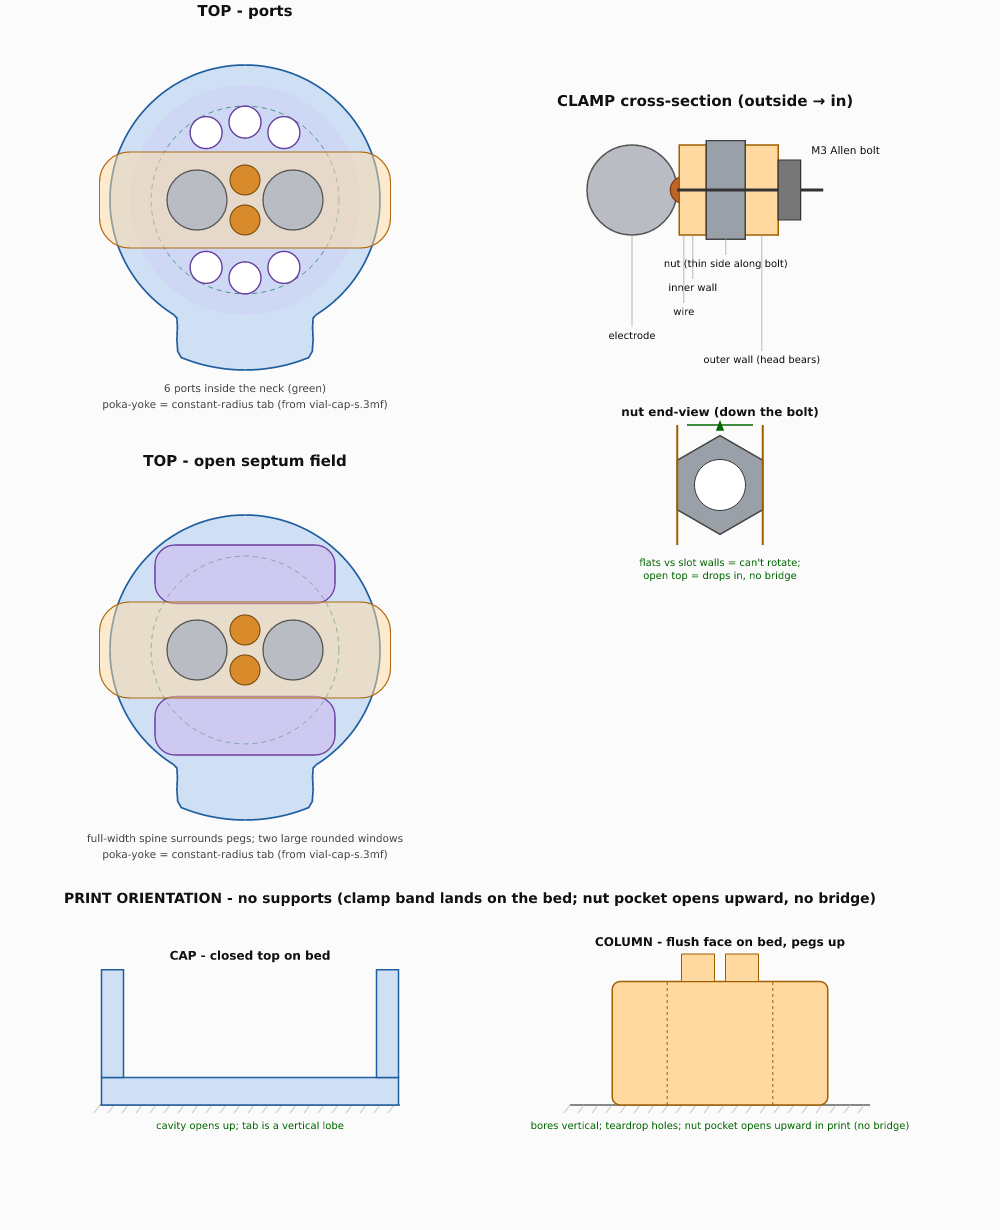
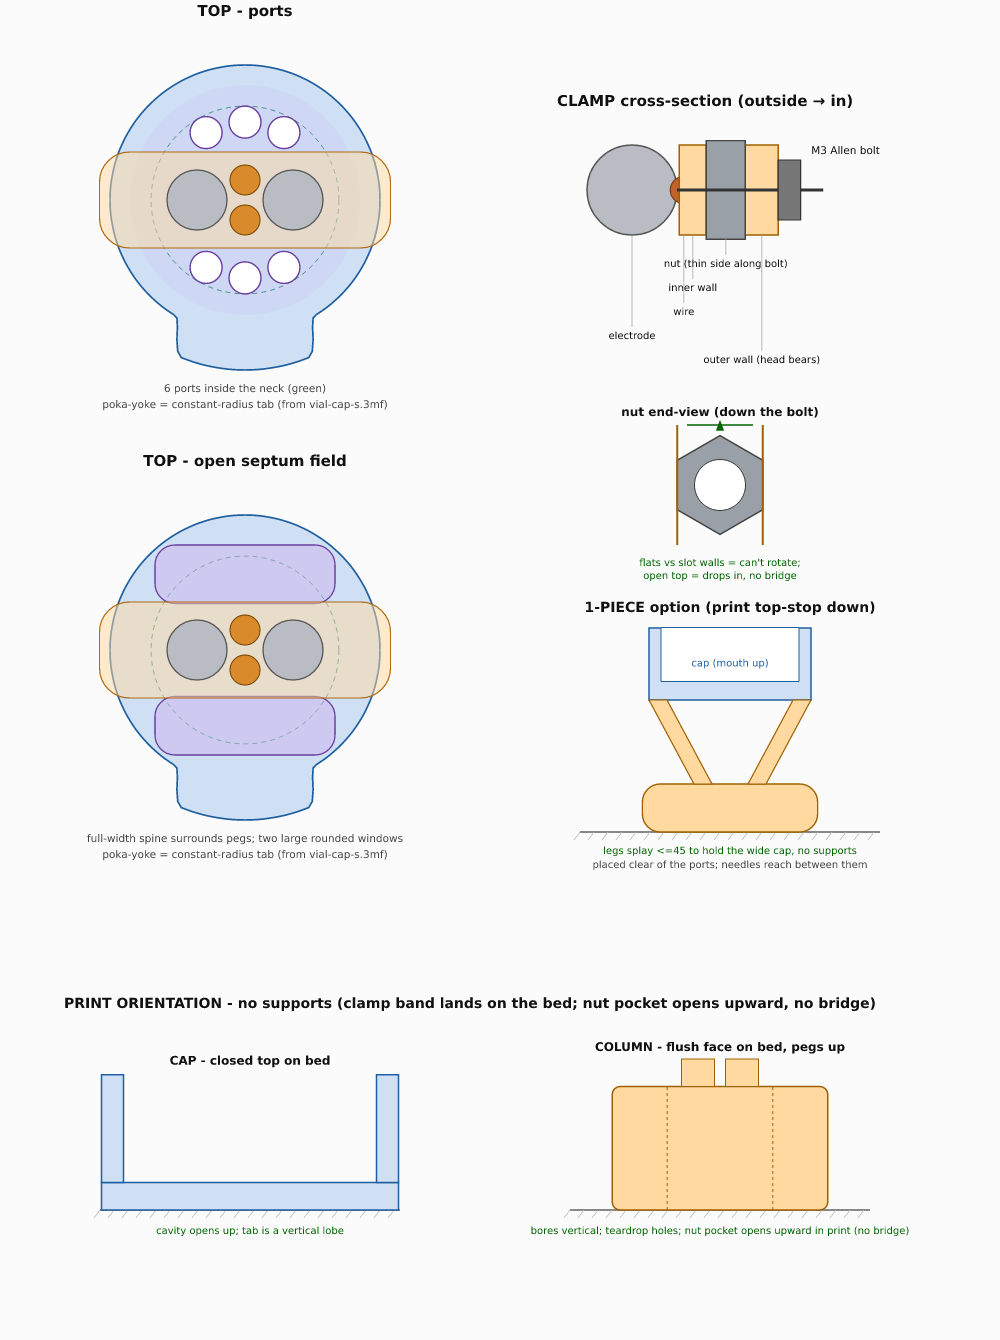
Add 1-vs-2-piece option (pieces); 1-piece uses V-legs to the cap
New `pieces` parameter. pieces=2 is the current separate cap + top stop.
pieces=1 fuses them into one printable part: it prints top-stop-down, with
V-legs splaying from the top stop out to the cap rim so the wide cap is held
up at <=45 deg (support-free) while the legs sit clear of the 6 ports
(leg_angles default 45/135/225/315) so needles still reach the septum
between them. Leg count/positions are a tunable starting point - the cap-disc
bridging between legs wants a print test.

diff --git a/design-concept/make_figure.py b/design-concept/make_figure.py
@@ -34,7 +34,7 @@ class Svg:
         s.poly(pts,fill=fill,stroke=stroke,sw=sw)
 
 CAP="#cfe0f5"; CARR="#ffd9a0"; SEPT="#cdb6ec"; ELEC="#b9bcc2"; PEG="#d98a2b"; WIRE="#c0622a"; STEEL="#9aa0a8"
-g=Svg(); W,H=1000,1230; s=10.0
+g=Svg(); W,H=1000,1340; s=10.0
 
 def tab_radius(adeg):
     # constant-radius plateau at -90 with fillet shoulders
@@ -106,7 +106,7 @@ g.txt(ex,ey+5.4*sc,"flats vs slot walls = can't rotate;",size=10,anchor="middle"
 g.txt(ex,ey+5.4*sc+13,"open top = drops in, no bridge",size=10,anchor="middle",fill="#060")
 
 # ----- Panel D: PRINT orientation -----
-py=905
+py=1010
 g.txt(470,py-2,"PRINT ORIENTATION  -  no supports (clamp band lands on the bed; nut pocket opens upward, no bridge)",size=14,weight="bold",anchor="middle")
 bed=py+200
 def bedline(x0,x1):
@@ -126,6 +126,23 @@ for sgn in (-1,1):  # pegs (short cylinders) pointing up, flush-depth = cap top 
     g.rect(bxp-peg_r*11,bed-colh-2.5*11,2*peg_r*11,2.5*11,fill=CARR,stroke="#a06000",sw=1.2)
 g.txt(cx,bed-colh-2.5*11-8,"COLUMN - flush face on bed, pegs up",size=12,anchor="middle",weight="bold")
 g.txt(cx,bed+24,"bores vertical; teardrop holes; nut pocket opens upward in print (no bridge)",size=10,anchor="middle",fill="#060")
+
+# ----- 1-PIECE option (print orientation) -----
+ox=560; S2=6.0; cx2=ox+170
+g.txt(cx2, 612, "1-PIECE option  (print top-stop down)", size=14, anchor="middle", weight="bold")
+capz=628; b=832; capw=13.5*S2
+g.rect(cx2-capw, capz, 2*capw, 12*S2, fill=CAP, stroke="#1f5fa0", sw=1.4)
+g.rect(cx2-capw+2*S2, capz-0.5, 2*capw-4*S2, 9*S2, fill="white", stroke="#1f5fa0", sw=1)
+g.txt(cx2, capz+6.4*S2, "cap (mouth up)", size=10, anchor="middle", fill="#1f5fa0")
+g.line(cx2-150,b,cx2+150,b,stroke="#888",sw=2)
+for x in range(int(cx2-150),int(cx2+150),14): g.line(x,b,x-6,b+8,stroke="#bbb",sw=1)
+g.rect(cx2-14.6*S2, b-8*S2, 2*14.6*S2, 8*S2, fill=CARR, stroke="#a06000", sw=1.4, rx=3*S2)
+for sgn in (-1,1):
+    g.poly([(cx2+sgn*3*S2, b-8*S2),(cx2+sgn*6*S2, b-8*S2),
+            (cx2+sgn*capw, capz+12*S2),(cx2+sgn*(capw-3*S2), capz+12*S2)],
+           fill=CARR, stroke="#a06000", sw=1.2)
+g.txt(cx2, b+22, "legs splay &lt;=45 to hold the wide cap, no supports", size=10, anchor="middle", fill="#060")
+g.txt(cx2, b+36, "placed clear of the ports; needles reach between them", size=10, anchor="middle", fill="#444")
 
 out=(f'<svg xmlns="http://www.w3.org/2000/svg" width="{W}" height="{H}" viewBox="0 0 {W} {H}">'
      f'<rect width="{W}" height="{H}" fill="#fbfbfb"/>'+"".join(g.p)+"</svg>")

diff --git a/design-concept/README.md b/design-concept/README.md
@@ -25,7 +25,8 @@ One source file; iterations live in git history, not in `v2`/`v3` files.
 Options (choices listed inline in the file):
 `view = "exploded" | "assembled" | "section" | "print"`,
 `part = "all" | "cap" | "column" | "septum"`,
-`port_style = "ports" | "open"`.
+`port_style = "ports" | "open"`,
+`pieces = 2 | 1`.
 
 Requires BOSL2 (same as the current `Vial Cap.scad`) — the GPI 24-400 thread is
 the real one now.
@@ -51,6 +52,12 @@ the real one now.
   corners** (no sharp dirt traps).
 - **Pegs** are plain, `top_th` deep, so they sit flush with the cap's inside
   ceiling and don't push the septum.
+- **1 vs 2 pieces** (`pieces`). `2` = separate cap + top stop (pegs register
+  them). `1` = the whole holder printed as one part: it prints **top-stop-down**,
+  and **V-legs** splay out from the top stop to the cap rim — they hold the wide
+  cap up at ≤45° (no supports) and sit clear of the ports so needles still reach
+  the septum between them. The leg count/positions (`leg_angles`) are a starting
+  point — print-test and tune the cap-disc bridging between legs.
 
 ## Print check (no supports)
 
